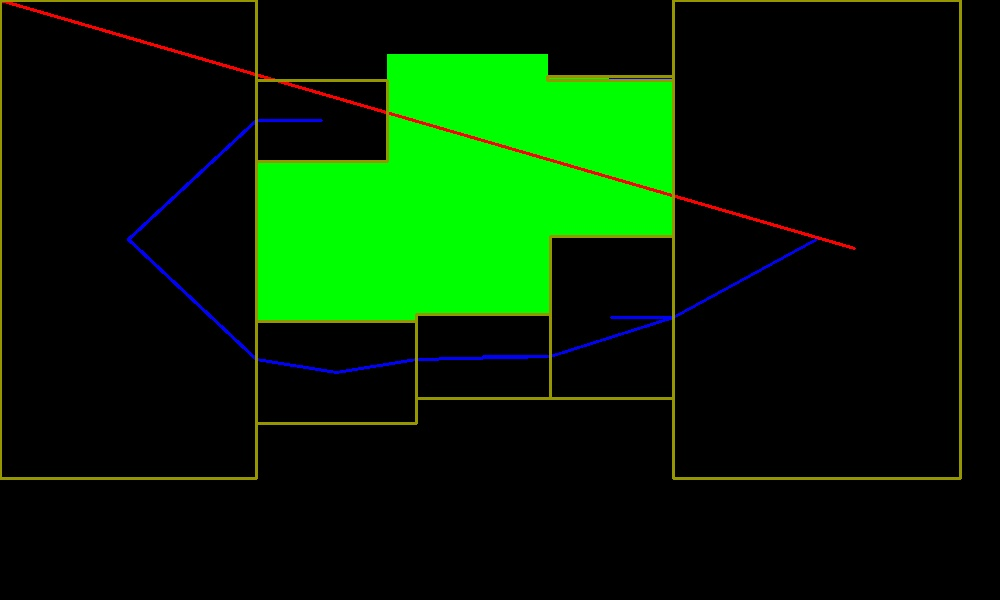
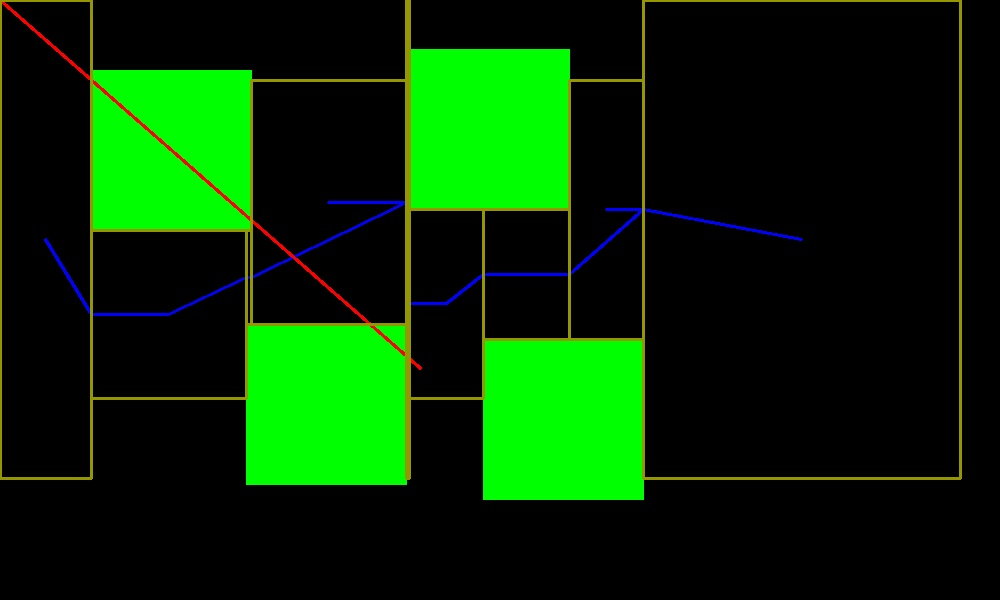
Base commit

Changed region(s): [[0.0, 0.0, 0.868, 0.84], [0.62, 0.0, 0.682, 0.03], [0.155, 0.45, 0.186, 0.48]]

diff --git a/Client/BaseStation/WorldVisionTest/mainForTestPhil.py b/Client/BaseStation/WorldVisionTest/mainForTestPhil.py
@@ -38,7 +38,7 @@ def myMain2():
     #frame = cv2.imread('Photo-Test/Frames/Picture 500.jpg')
     geometricalImage = WorldImage()
     #ret, frame = camera.read()
-    frame = cv2.imread('Photo-Test/Frames/Picture 500.jpg')
+    frame = cv2.imread('Photo-Test/Frames/Picture 501.jpg')
     frame = cv2.resize(frame, (960, 720))
     # copyF = copy.copy(frame)
     geometricalImage.buildMap(frame)
@@ -46,7 +46,7 @@ def myMain2():
     geometricalImage.defineTreasures([88, 30])
     #geometricalImage.findBestTresor()
     geometricalImage.addLabels(frame)
-    myTarget = ShapeTarget("cercle")
+    myTarget = ShapeTarget("pentagone")
     geometricalImage.getIslandPositioning(myTarget)
 
     geometricalImage.drawMapOnFrame(frame)
@@ -57,5 +57,5 @@ def myMain2():
         #     break
 
 if __name__ == '__main__':
-    myMain()
+    myMain2()
     #cProfile.run('myMain()')

diff --git a/Client/BaseStation/WorldVision/worldImage.py b/Client/BaseStation/WorldVision/worldImage.py
@@ -24,7 +24,7 @@ class WorldImage:
 
     def getIslandPositioning(self, target):
         self.__map.setTarget(target)
-        self.myPath, ret = self.__map.getPositionInFrontOfIsland()
+        self.position, ret = self.__map.getPositionInFrontOfIsland()
         return self.__map.getPositionInFrontOfIsland()
 
     def buildMap(self, frame):
@@ -77,6 +77,7 @@ class WorldImage:
         for treasure in self.__map.treasures:
             cv2.circle(frame,(int(treasure[0]), int(treasure[1])), 10, (0,0,255), 2)
 
+        cv2.circle(frame,(int(self.position[0]), int(self.position[1])), 5, (255,0,0), 2)
         cv2.drawContours( frame, self.__map.getContourList(), -1, (0, 255, 0), 3 )
         cv2.drawContours( frame, limit, -1, (0, 255, 0), 3 )
         cv2.drawContours( frame, target, -1, (255, 0, 0), 3 )

diff --git a/Client/BaseStation/WorldVision/map.py b/Client/BaseStation/WorldVision/map.py
@@ -163,16 +163,6 @@ class Map:
         minY = 92
         maxY = 580
 
-#table 1 : (0,110), (960,590)
-
-#table 2 : (0,109), (960,597)
-
-#table 3 : (0,105), (960,587)
-
-#table 5 : (0,125), (960,605)
-
-#table 6 : (0,92), (960,580)
-
         newFoundLimit = Square("limit", np.array([[[minX,minY + 5]],[[minX,maxY - 5]],[[maxX, maxY - 5]],[[maxX,minY + 5]]], dtype=np.int32))
 
         if newFoundLimit.getArea() < self.limit.getArea() or len(self.limit.getContour()) == 0:
